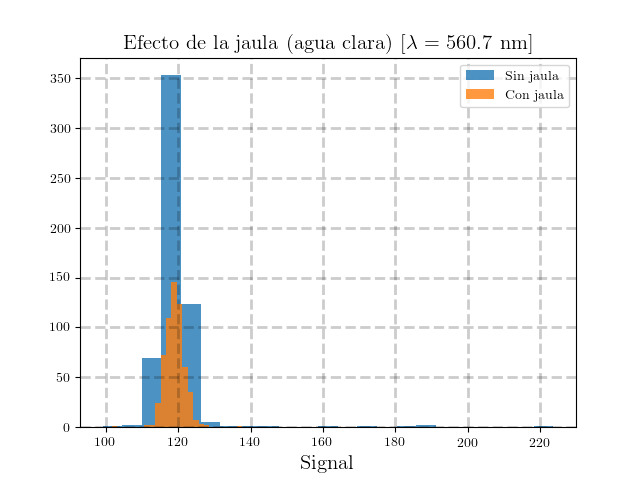
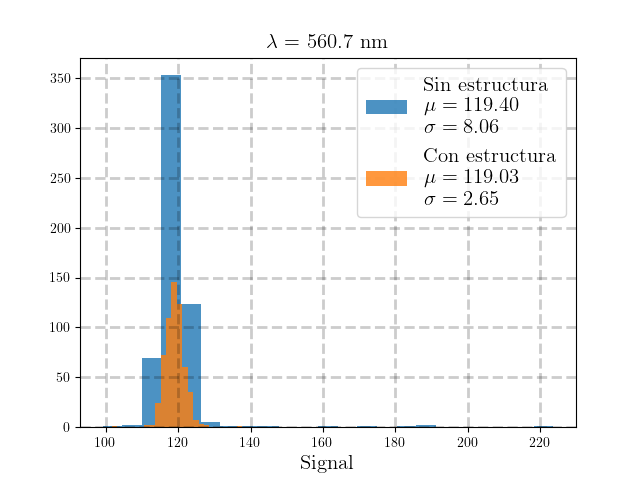
Modifiqué las etiquetas de los gráficos.

diff --git a/SC6/SC6-SegudaPrueba/Con y sin jaula/SC6-EfectoJaula.py b/SC6/SC6-SegudaPrueba/Con y sin jaula/SC6-EfectoJaula.py
@@ -15,7 +15,7 @@ sys.path.append(path)
 
 TitleSize=15
 AxisLabelSize=15
-LegendSize=10
+LegendSize=15
 NumberSize=10
 
 plt.close('all')
@@ -56,12 +56,18 @@ for i in range(6):
     signalCJ.append(data['LOG_0050'][SIG])  # con la jaula
     signalSJ.append(data['LOG_0051'][SIG])  # sin la jaula
     
+    meanCJ = np.mean(signalCJ[i])    
+    meanSJ = np.mean(signalSJ[i])
+    
+    stdCJ = np.std(signalCJ[i])    
+    stdSJ = np.std(signalSJ[i])
+    
     plt.figure()
-    plt.hist(signalSJ[i], label = 'Sin jaula', alpha = 0.8, bins=int(np.sqrt(len(signalSJ[i]))))
-    plt.hist(signalCJ[i], label = 'Con jaula',alpha = 0.8, bins=int(np.sqrt(len(signalCJ[i]))))
+    plt.hist(signalSJ[i], label = 'Sin estructura\n$\mu = %.2f$\n$\sigma = %.2f$'%(meanSJ, stdSJ), alpha = 0.8, bins=int(np.sqrt(len(signalSJ[i]))))
+    plt.hist(signalCJ[i], label = 'Con estructura\n$\mu = %.2f$\n$\sigma = %.2f$'%(meanCJ, stdCJ),alpha = 0.8, bins=int(np.sqrt(len(signalCJ[i]))))
     
     plt.legend(loc='best', fontsize=LegendSize)
-    plt.title(r'Efecto de la jaula (agua clara) [$\lambda$ = %s nm]'%(long[i]), fontsize=TitleSize)
+    plt.title(r'$\lambda$ = %s nm'%(long[i]), fontsize=TitleSize)
     plt.xlabel(r'Signal', fontsize=AxisLabelSize)
     plt.ylabel(r'', fontsize=AxisLabelSize)
     plt.grid(axis='both', color='k', linestyle='dashed', linewidth=2, alpha=0.2)
